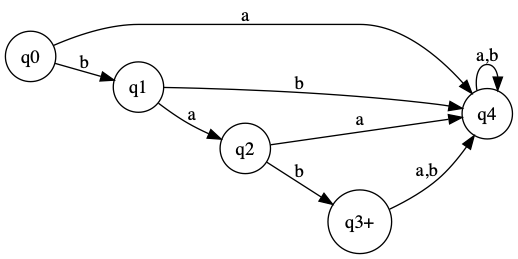
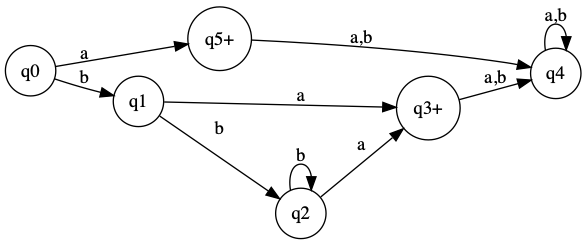
move regex parser into dfa class

diff --git a/automata/dfa.py b/automata/dfa.py
@@ -2,11 +2,17 @@
 from collections import defaultdict
 
 import pydot
-from fsm import FSM
+from fsm import Fsm
 from fsm import State
+from regex_parser import LexRule
+from regex_parser import make_lexer
+from regex_parser import make_parser
+from regex_parser import OpPrecedence
+from regex_parser import ParseRule
+from regex_parser import Token
 
 
-class Dfa(FSM):
+class Dfa(Fsm):
     """
     a Deterministic Finite Automaton is a 5-tuple M=(Q,Σ,δ,q0,F) consisting of:
         - a finite set of states Q
@@ -53,6 +59,46 @@ class Dfa(FSM):
         # have all edges from final state point to garbage state
         transitions.update({(state, symbol): garbage for symbol in alphabet})
         return cls(states, alphabet, transitions, start_state, {state})
+
+    @classmethod
+    def from_regex(cls, pattern, alphabet="ab"):
+        """create a dfa from a regular expression"""
+        token_types = (
+            LexRule(r"\s+", lambda match: None),
+            LexRule(fr'[{"".join(alphabet)}]', lambda match: Token("atom", match)),
+            LexRule(r"\+", lambda match: Token("add", None)),
+            LexRule(r"\*", lambda match: Token("star", None)),
+            LexRule(r"[\^Λ]", lambda match: Token("null", "Λ")),
+            LexRule(r"\(", lambda match: Token("(", None)),
+            LexRule(r"\)", lambda match: Token(")", None)),
+        )
+        precedence_table = (
+            OpPrecedence("left", ("add")),
+            OpPrecedence("left", ("atom")),
+            OpPrecedence("left", ("star")),
+        )
+        rule_table = (
+            ParseRule(
+                None, ["atom"], lambda n: Token("E", Dfa.from_atom(n.value, alphabet))
+            ),
+            ParseRule(None, ["(", "E", ")"], lambda l, ex, r: ex),
+            ParseRule(
+                "star", ["E", "star"], lambda l, op: Token("E", l.value.kleene_star())
+            ),
+            ParseRule(
+                "atom",
+                ["E", "E"],
+                lambda l, r: Token("E", l.value.concatenate(r.value)),
+            ),
+            ParseRule(
+                "add",
+                ["E", "add", "E"],
+                lambda l, op, r: Token("E", l.value.union(r.value)),
+            ),
+        )
+
+        tokens = make_lexer(token_types)(pattern)
+        return make_parser(rule_table, precedence_table)(tokens)
 
     def accepts(self, string):
         """ check whether this DFA accepts a particular string """
@@ -244,8 +290,11 @@ class Dfa(FSM):
 
 def main():
     """ the main method leave me alone pylint """
-    dfa = Dfa.from_atom("bab")
-    dfa = dfa.complement()
+    # dfa = Dfa.from_atom("bab")
+    # dfa = dfa.complement()
+    # dfa.to_png()
+
+    dfa = Dfa.from_regex("b*a")
     dfa.to_png()
 
 

diff --git a/automata/regex_parser.py b/automata/regex_parser.py
@@ -4,10 +4,10 @@ this module creates lexers and parsers for a particular grammar
 import re
 from collections import namedtuple
 
-from dfa import Dfa
+# from dfa import Dfa
 
 Token = namedtuple("Token", "type value")
-LexRule = namedtuple("LexRule", "experession handler")
+LexRule = namedtuple("LexRule", "expression handler")
 ParseRule = namedtuple("ParseRule", "operator inputs handler")
 OpPrecedence = namedtuple("OpPrecedence", "associativity operators")
 
@@ -80,41 +80,3 @@ def make_parser(rules, precedence):
         return stack[0].value
 
     return parse
-
-
-def regex_to_dfa(pattern, alphabet):
-    """build dfa from regex"""
-    token_types = (
-        LexRule(r"\s+", lambda match: None),
-        LexRule(fr'[{"".join(alphabet)}]', lambda match: Token("atom", match)),
-        LexRule(r"\+", lambda match: Token("add", None)),
-        LexRule(r"\*", lambda match: Token("star", None)),
-        LexRule(r"[\^Λ]", lambda match: Token("null", "Λ")),
-        LexRule(r"\(", lambda match: Token("(", None)),
-        LexRule(r"\)", lambda match: Token(")", None)),
-    )
-    precedence_table = (
-        OpPrecedence("left", ("add")),
-        OpPrecedence("left", ("atom")),
-        OpPrecedence("left", ("star")),
-    )
-    rule_table = (
-        ParseRule(
-            None, ["atom"], lambda n: Token("E", Dfa.from_atom(n.value, alphabet))
-        ),
-        ParseRule(None, ["(", "E", ")"], lambda l, ex, r: ex),
-        ParseRule(
-            "star", ["E", "star"], lambda l, op: Token("E", l.value.kleene_star())
-        ),
-        ParseRule(
-            "atom", ["E", "E"], lambda l, r: Token("E", l.value.concatenate(r.value))
-        ),
-        ParseRule(
-            "add",
-            ["E", "add", "E"],
-            lambda l, op, r: Token("E", l.value.union(r.value)),
-        ),
-    )
-
-    tokens = make_lexer(token_types)(pattern)
-    return make_parser(rule_table, precedence_table)(tokens)

diff --git a/automata/fsm.py b/automata/fsm.py
@@ -14,7 +14,7 @@ class State:  # pylint: disable-msg=too-few-public-methods
     """an empty state class"""
 
 
-class FSM:
+class Fsm:
     """fsm class"""
 
     def __init__(self, states, alphabet, start_state, final_states):
